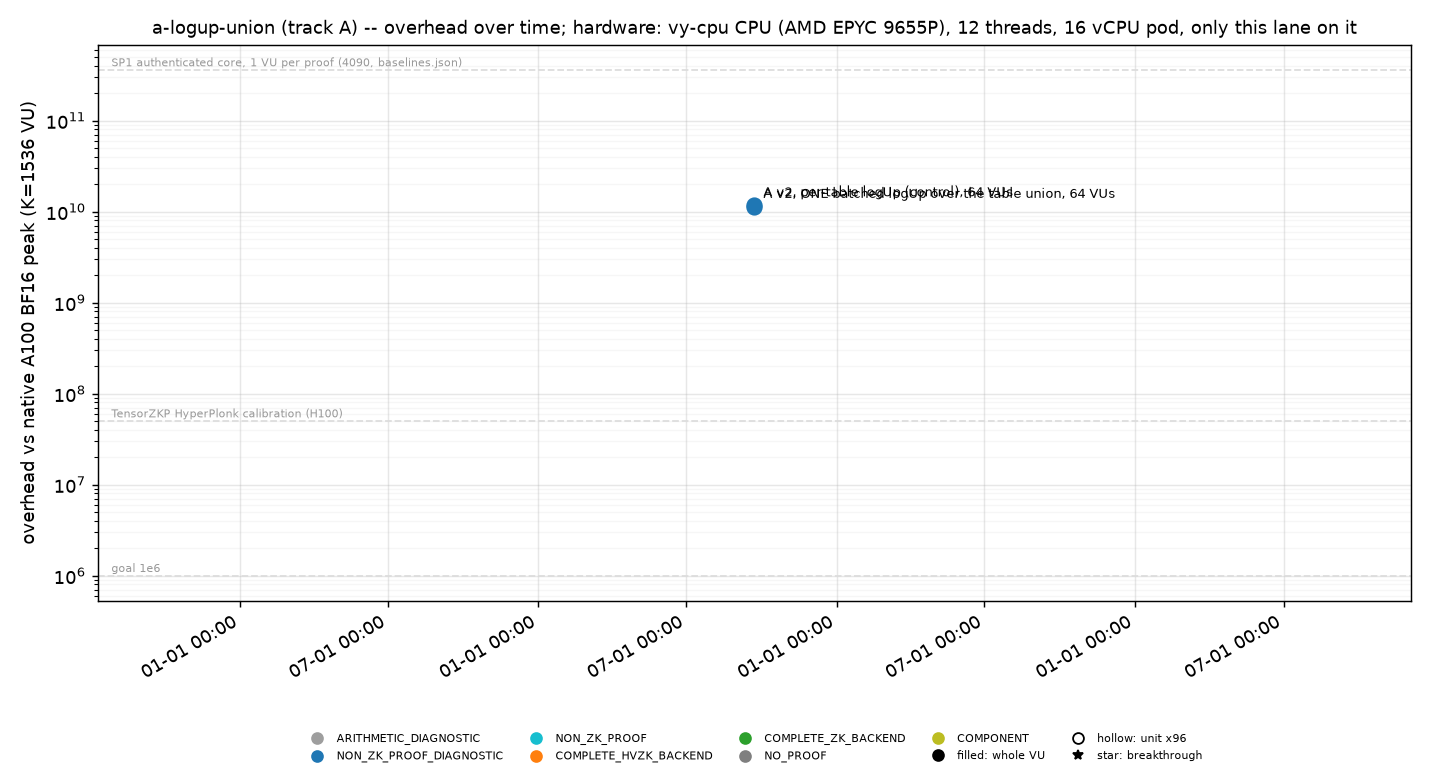
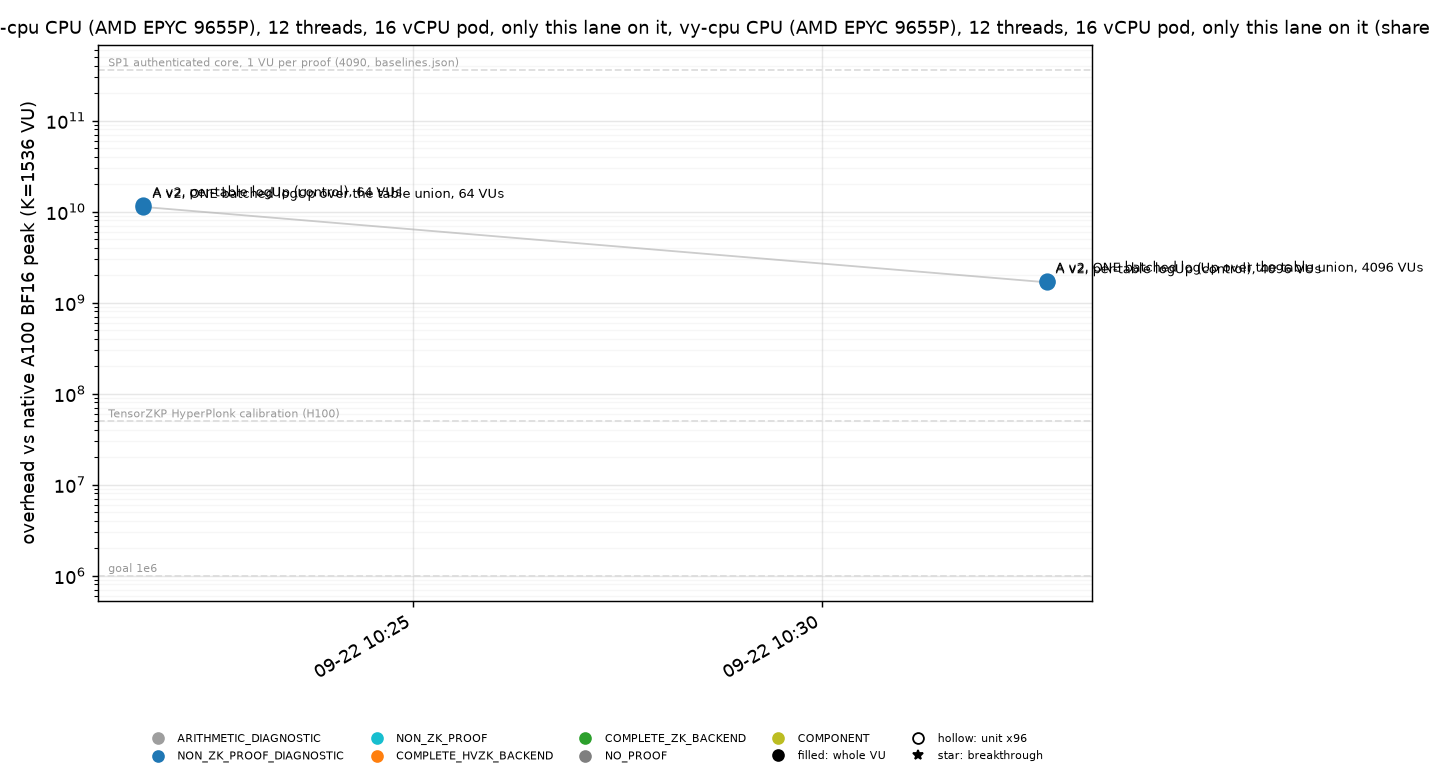
README: batched logUp (union) section with the vy-cpu per-table vs union rows; PROTOCOL 15.3/15.6 measured bytes + run ids + CPU verdict; HANDOFF_UNION CPU ratio; ledger B=4096 + plots

diff --git a/backends/gkr/README.md b/backends/gkr/README.md
@@ -272,3 +272,48 @@ v1 model 0.505 s per 4096 batch (overhead 1.25e7) → v2 model 0.221 s (5.47e6) 
 with the commitment (encode + hash, 0.105 s) now 70 % of the GPU time; BabyBear^6 re-priced 0.103 s (2.54e6). The model's
 own v2 row is conservative on the arith bucket (it prices the census's 33 products at depth 3; the export has 26 at
 depth 1).
+
+## Batched logUp over the table union (vy-cpu, 12 threads, PCS mode, `--variant v2 --logup union`; lane a-logup-union, 2026-09-22)
+
+One fractional-GKR instance over all twelve v2 tables instead of one per table: every query and every row is tagged
+by its table, \(\phi(w,t)=\sum_k w_k\beta^k+\gamma\,\mathrm{tag}(t)\), one \((z,\beta,\gamma)\) message drawn after
+the commitment. `PROTOCOL.md` §15 (construction, soundness, depth, GPU shape); `gpu/HANDOFF_UNION.md` for the GPU
+lanes. **A protocol change to the lookup argument only; relation, export, commitment and chain unchanged.** The
+per-table path stays the default; `--logup union` / `VERITY_GKR_LOGUP=union` / `LOGUP=union|both` in
+`run_measure_vu.sh` select the union (`LOGUP=both` runs both legs on the same binary, box and instances and writes
+`result_per_table.json` + `result.json`). Security **2^-127.71 at both fields and both B, unchanged** (the union's
+collision 2^-165.8 + identity 2^-166.8 + GKR 2^-182.0 terms replace the twelve per-table identities, lookup bucket
+2^-165.2 → 2^-165.2; `account_candidate_a(lookup_mode="union")`, `V2_EXPORT_TABLES`).
+
+~~~sh
+VARIANT=v2 GATE=1 LOGUP=both      bash backends/gkr/run_measure_vu.sh        # cargo test (17, both modes); 30 + 4 v2 negatives per mode
+VARIANT=v2 NEGATIVES=1 LOGUP=both bash backends/gkr/run_measure_vu.sh        # vu-k1536-neg in both modes
+VARIANT=v2 LOGUP=both             bash backends/gkr/run_measure_vu.sh 4096   # per-table then union, one run dir
+~~~
+
+**Correctness gate** (vy-cpu, commit 2f547db): `cargo test --release` 17/17 (r20260922-093758-9aac; honest units in
+both modes, every exported negative rejected in both modes, a per-table proof rejected by a union verifier and vice
+versa, the redteam-3 `cross_table` and `forged_epilogue_hint` fixtures rejected); v2 unit negatives **30/30** and VU
+negatives **4/4** rejected in per-table AND union mode (same run); `vu-k1536-neg` **52/52** in both modes
+(r20260922-095946-5638: 8 at witness generation, 44/44 by the verifier, per mode).
+
+**Per-table vs union, same run, same binary, all VUs accepted:**
+
+| B | lookup | run id | prove_s (commit / lookup / arith / open) | verify_s | proof bytes | coins | depth (lookup chain) | peak RSS | committed | s / VU | union / per-table |
+|---|---|---|---|---|---|---|---|---|---|---|---|
+| 64 | per-table | r20260922-101533-20c4 | 7.37 (0.94 / 4.41 / 0.29 / 1.72) | 1.76 | 3,152,048 | 2525 | 257 (254) | 1.9 GB | 6,868,664 | 0.1152 | — |
+| 64 | **union** | r20260922-101533-20c4 | **7.09** (1.00 / **3.96** / 0.32 / 1.79) | 1.62 | 2,992,520 | **642** | 280 (277) | 1.9 GB | 6,868,664 | 0.1107 | total **0.96×**, lookup 0.90×, bytes 0.95×, depth +23 |
+| 4096 | per-table (run 1) | r20260922-102013-2931 | 62.93 (9.00 / 25.43 / 13.89 / 14.17) | 17.19 | 41,574,896 | 3393 | 304 (301) | 13.4 GB | 109,120,184 | 0.0154 | — |
+| 4096 | union (run 1) | r20260922-102013-2931 | 70.49 (6.62 / 30.16 / 17.14 / 16.01) | 15.31 | 41,347,304 | 761 | 355 (352) | 13.4 GB | 109,120,184 | 0.0172 | total 1.12×, lookup 1.19× |
+| 4096 | per-table (run 2) | r20260922-102556-cdcc | 67.36 (9.53 / 28.29 / 15.20 / 13.80) | 14.87 | 41,574,896 | 3393 | 304 (301) | 13.5 GB | 109,120,184 | 0.0164 | — |
+| 4096 | **union (run 2)** | r20260922-102556-cdcc | **70.08** (8.49 / **29.45** / 14.82 / 16.80) | 15.17 | 41,347,304 | **761** | 355 (352) | 13.5 GB | 109,120,184 | 0.0171 | total **1.04×**, lookup 1.04×; two-run means **1.08× / 1.11×**, bytes 0.995×, depth +51 |
+
+Reading: on the CPU the union is a wash — slightly faster at B = 64 (twelve trees' fixed costs dominate there),
+slightly slower at B = 4096, where its one tree of \(2^{26}\) leaves (39.1M live, 42 % padding) does 1.25× the leaf
+work of the twelve smaller padded trees (\(2^{24}\)·2 + \(2^{23}\) + \(2^{21}\)·4 + \(2^{20}\)·3 + \(2^{17}\) +
+\(2^{16}\) = 53.7M). Buckets with identical work (arith, commit) vary ±20 % between the two runs on this box, so the
+B = 4096 difference is within noise; the **coins** (3393 → 761) and the **depth** (+51 trips: one 26-level chain vs
+the deepest 24-level per-table chain) are exact. Proof bytes barely move (the opening dominates). The union's case is
+the GPU's per-instance latency (`reports/a_kernels_h100_v2.md`: ~14 ms × 10 instances), not CPU throughput —
+`gpu/HANDOFF_UNION.md`. Not a `--breakthrough` (no > 1.5× change). vy-cpu is slower than vy-cpu2 (a-v2's 54.2 s
+per-table headline): the two legs here are the like-for-like comparison, not the absolute numbers.

diff --git a/backends/gkr/PROTOCOL.md b/backends/gkr/PROTOCOL.md
@@ -1061,9 +1061,9 @@ stop condition ("if the union term breaks \(2^{-128}\), stop") is not triggered.
   \((\rho,\lambda)\)); evaluates the table side \(\sum_v -m_v/(z-\phi(r_v,t_v))\) as one pass over the 5.2M tagged
   rows (`check_leaves` in clear mode; the multiplicity functional in PCS mode) instead of twelve passes; checks one
   leaf functional inside the batched opening. Work is the same O(N+|T|) as before, fewer fixed per-instance costs.
-* Proof bytes: twelve \((\)root claim, \(n_T\) levels of sumcheck polynomials\()\) become one of \(n\) levels: the
-  lookup part of the proof shrinks by roughly \(\sum_t n_T^2/ n^2\approx\) 6–8×; the opening is unchanged. Measured
-  bytes are in the README rows.
+* Proof bytes: twelve (root claim, \(n_T\) levels of sumcheck polynomials) become one of \(n\) levels, but the
+  opening dominates the proof: measured 3 152 048 → 2 992 520 B at B = 64 (0.95×) and 41 574 896 → 41 347 304 B at
+  B = 4096 (0.995×), README rows.
 
 ### 15.4 GPU shape for `GraphLogUp` (hand-off: `gpu/HANDOFF_UNION.md`)
 
@@ -1101,6 +1101,10 @@ stop condition ("if the union term breaks \(2^{-128}\), stop") is not triggered.
 
 ### 15.6 Recorded runs
 
-README "Batched logUp (union)": gate `gkr.union.gate` (cargo tests in both modes; the 30 + 4 v2 negatives and
-`vu-k1536-neg` rejected under `--logup union`), and B = 64 / 4096 on vy-cpu with `LOGUP=both` — per-table and
-union on the same binary, box and instances (`result_per_table.json` / `result.json`).
+README "Batched logUp over the table union": gate r20260922-093758-9aac (17 cargo tests; 30 + 4 v2 negatives rejected
+in both modes), `vu-k1536-neg` r20260922-095946-5638 (52/52 in both modes), B = 64 r20260922-101533-20c4 and
+B = 4096 r20260922-102013-2931 / r20260922-102556-cdcc on vy-cpu with `LOGUP=both` — per-table and union on the same
+binary, box and instances. **CPU verdict: a wash** — union / per-table total 0.96× at B = 64, 1.08× at B = 4096
+(two-run mean; lookup bucket 0.90× / 1.11×), bytes 0.95× / 0.995×, coins 2525 → 642 / 3393 → 761, depth +23 / +51.
+The one \(2^{26}\) tree does 1.25× the leaf work of the twelve padded per-table trees at B = 4096; the union's case
+is the GPU's per-instance latency, to be measured by the GPU lanes (`gpu/HANDOFF_UNION.md`).

diff --git a/backends/gkr/gpu/HANDOFF_UNION.md b/backends/gkr/gpu/HANDOFF_UNION.md
@@ -94,12 +94,20 @@ B = 4096 — consider \(k\)-packing the top two levels or splitting into two ins
 shows; at B = 64 the padding is 31 %). Estimate: **25–40 ms** (a-fusion's 25–35 ms plus the padding). The
 per-round host trips (`rounds_per_graph = 1`) drop from Σ over 12 instances (~1900 rounds) to 325.
 
-## CPU-measured ratio (vy-cpu, EPYC 9655P, 12 threads, same binary and instances; `LOGUP=both`)
+## CPU-measured ratio (vy-cpu, EPYC 9655P, 12 threads, same binary and instances, `LOGUP=both`)
 
-See `backends/gkr/README.md` "Batched logUp (union)" rows and the ledger `backends/numerical/reports/ledger/a-logup-union.jsonl`
-for the numbers at B = 64 and B = 4096: `lookup` bucket and total, per-table vs union, `result_per_table.json`
-vs `result.json` in the same run dir. (Filled in by the lane at the end of the run; if this paragraph still has no
-numbers, the runs are `gkr.union.b64` / `gkr.union.b4096` on vy-cpu — `research fetch <id> --all`.)
+| B | per-table prove / lookup (s) | union prove / lookup (s) | union / per-table | bytes | coins | depth |
+|---|---|---|---|---|---|---|
+| 64 (r20260922-101533-20c4) | 7.37 / 4.41 | 7.09 / 3.96 | **0.96× / 0.90×** | 0.95× | 2525 → 642 | 257 → 280 |
+| 4096 (two runs, r20260922-102013-2931 + -102556-cdcc) | 65.1 / 26.9 (mean) | 70.3 / 29.8 (mean) | **1.08× / 1.11×** | 0.995× | 3393 → 761 | 304 → 355 |
+
+So on the CPU the union is a wash: the one \(2^{26}\) tree (67.1M leaves, 39.1M live) does ~1.25× the leaf work of
+the twelve padded per-table trees (53.7M leaves in total) and there is no per-instance fixed cost to amortise on a
+CPU. **Expect the GPU picture to be the opposite of the CPU one only if your per-instance latency (~14 ms × 12 on
+the H100) exceeds the extra 13.4M leaves' worth of tree work (~0.2 ms at H100 bandwidth).** If the padding hurts,
+k-pack the top levels or split the union into two trees of \(2^{25}\) (queries | tables) with the same challenges —
+that is still one instance for the transcript if both trees' root claims are absorbed together (needs a §15 amendment;
+not implemented).
 
 ## Open for the GPU lanes
 
